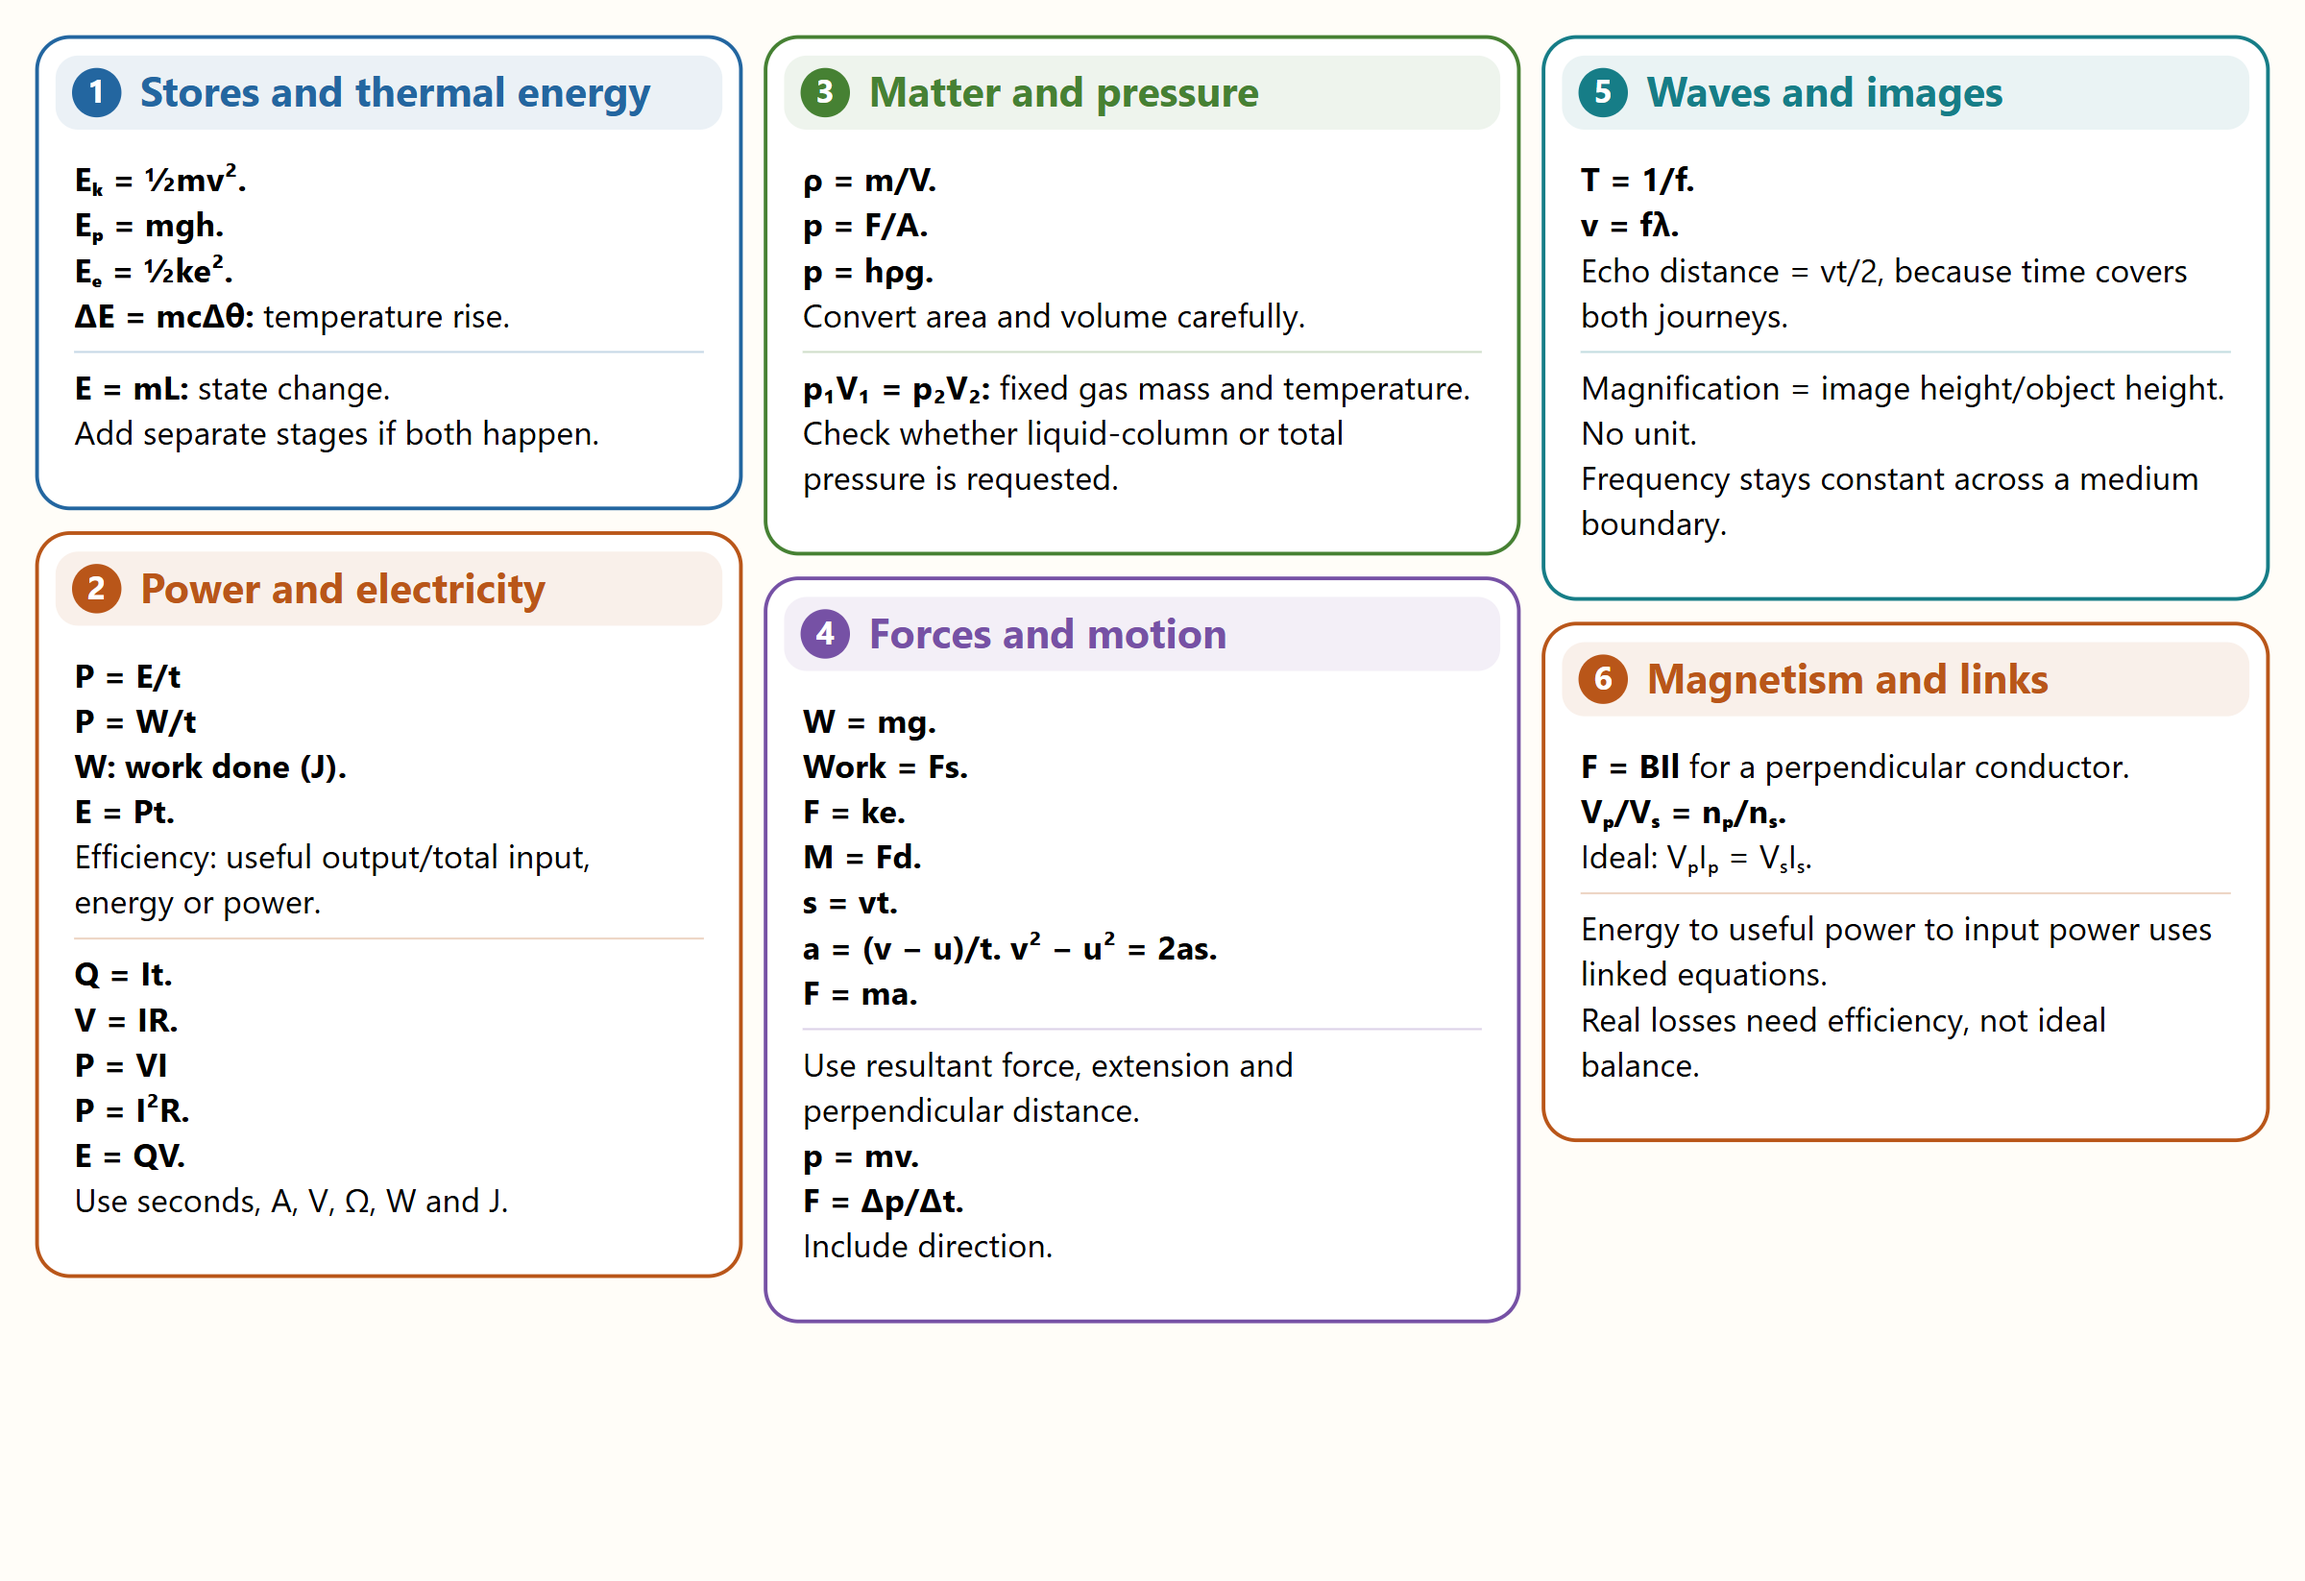
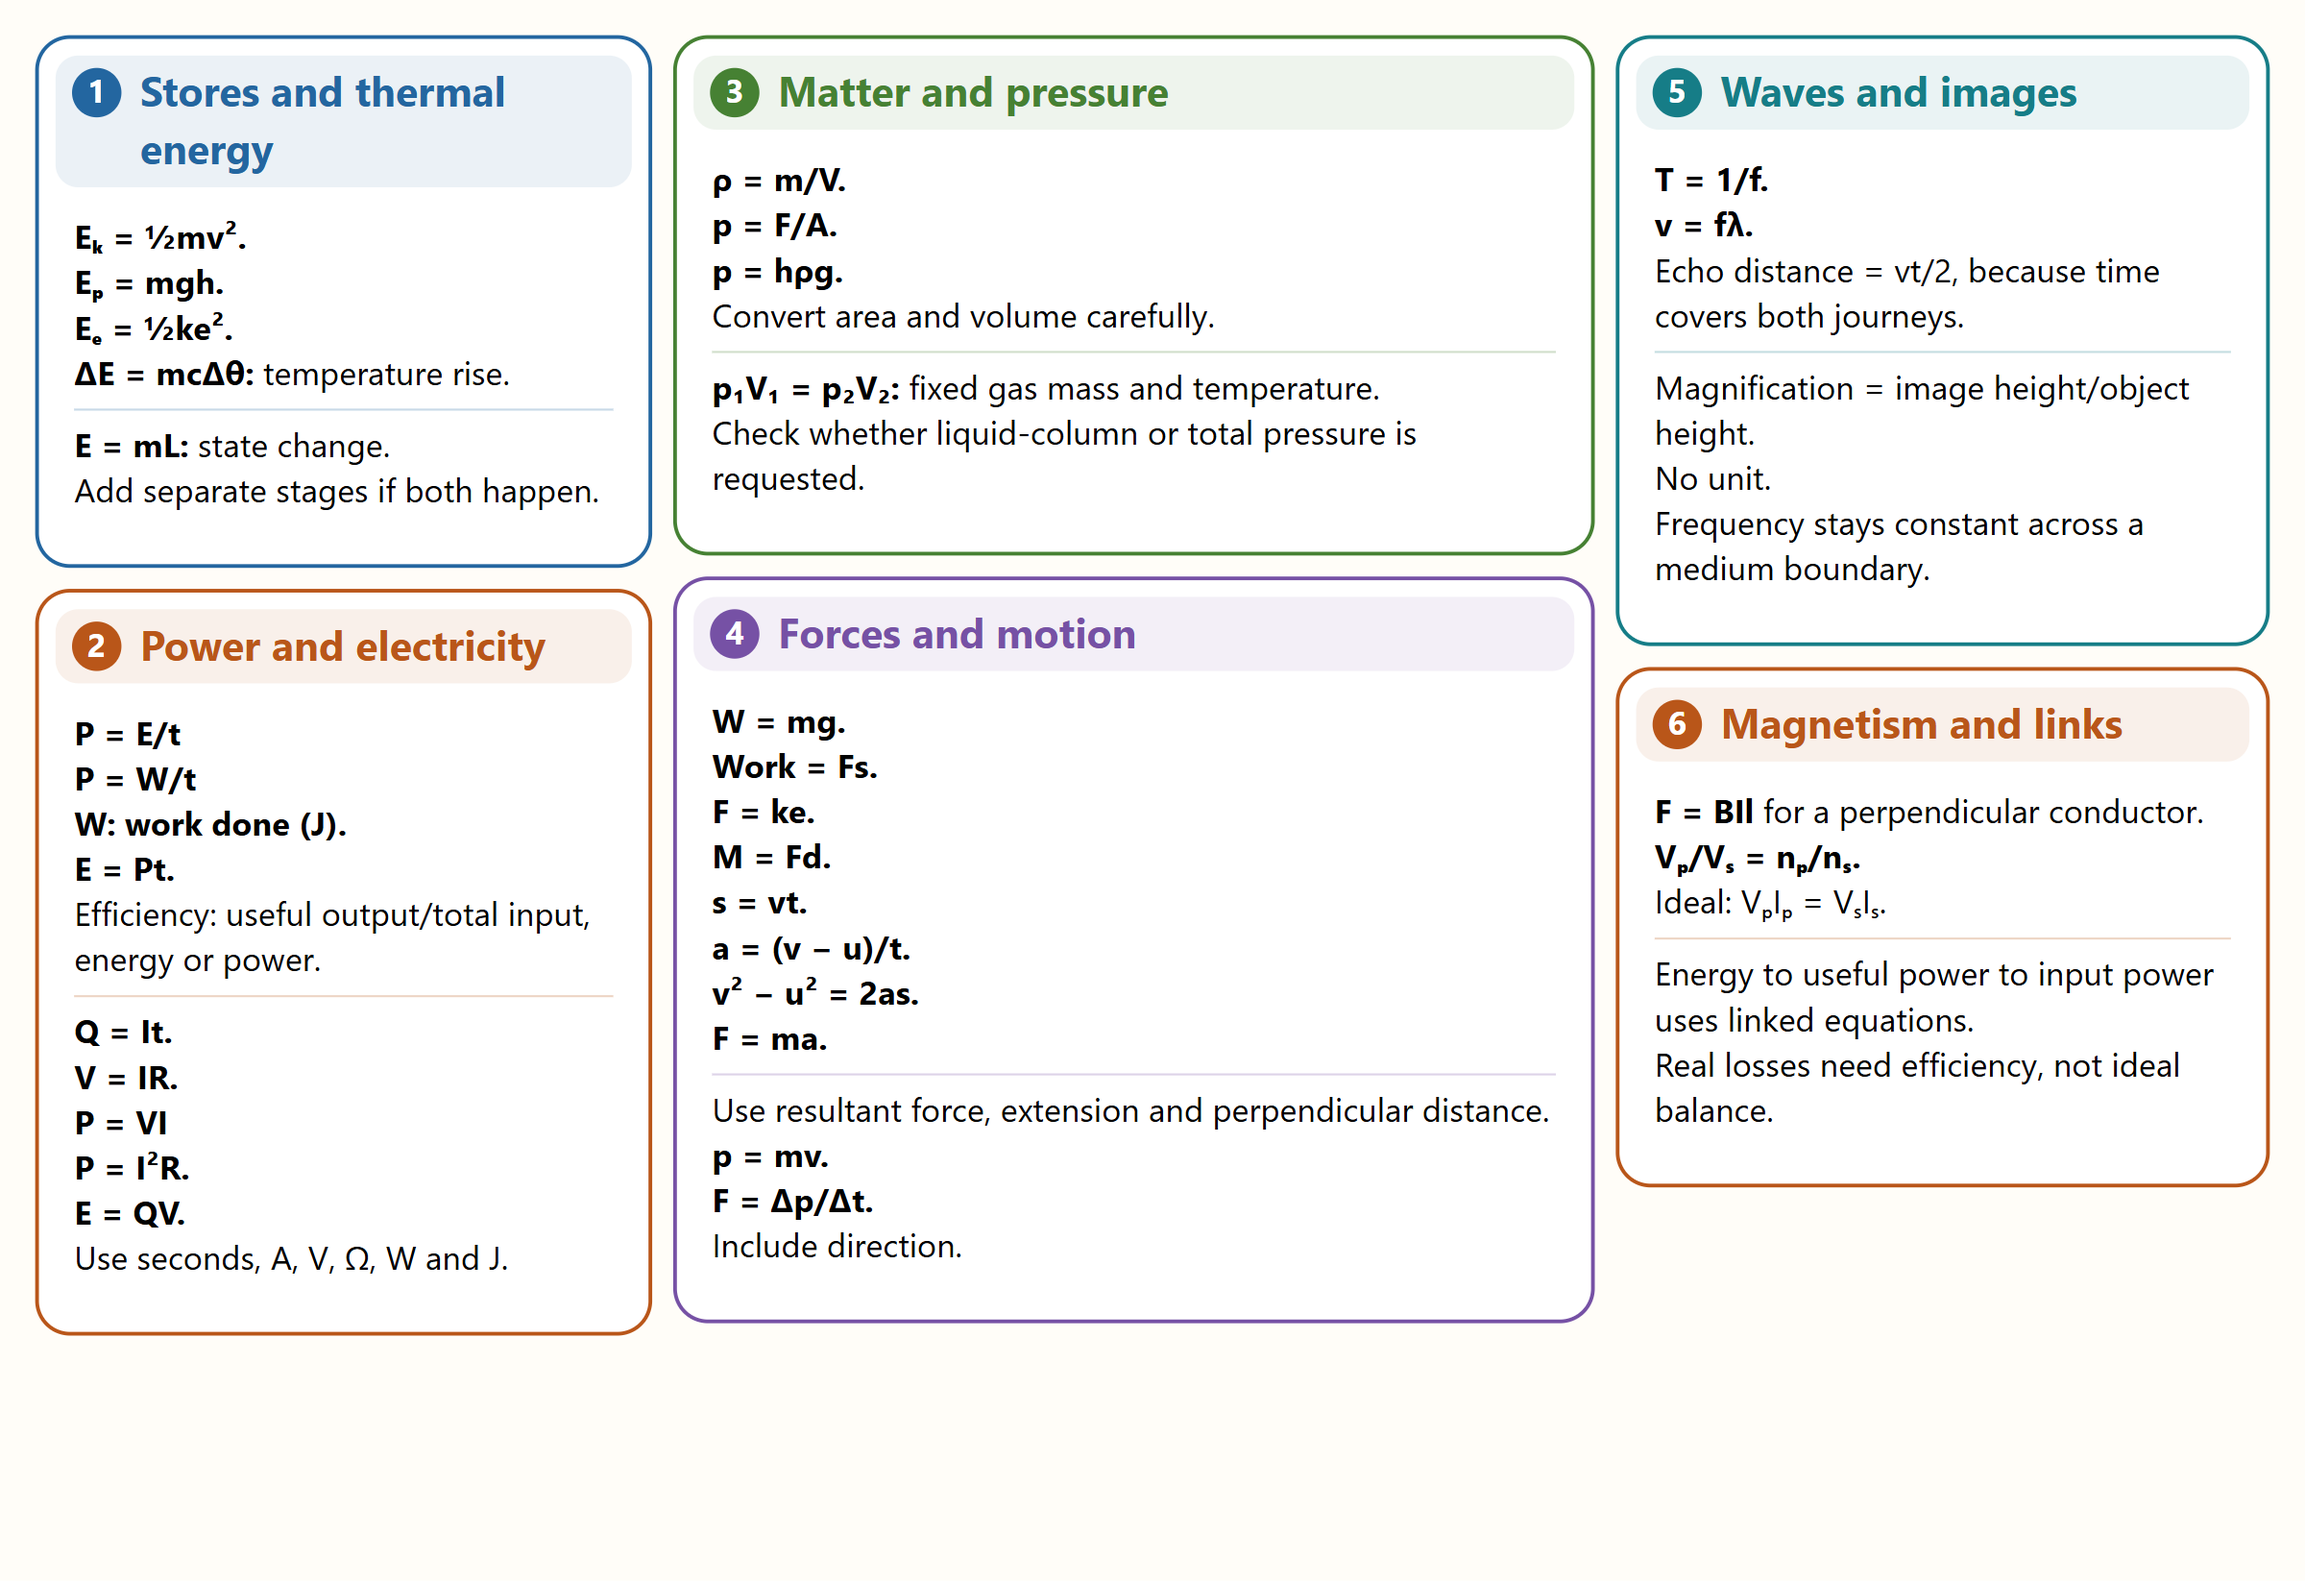
fix: review physics 10 mind-map equation layouts

diff --git a/library/resources/physics-aqa-mathematical-requirements-and-equations-02-equation-toolkit.html b/library/resources/physics-aqa-mathematical-requirements-and-equations-02-equation-toolkit.html
@@ -31,7 +31,8 @@
 <p><strong>F = ke.</strong></p>
 <p><strong>M = Fd.</strong></p>
 <p><strong>s = vt.</strong></p>
-<p><strong>a = (v − u)/t. v² − u² = 2as.</strong></p>
+<p><strong>a = (v − u)/t.</strong></p>
+<p><strong>v² − u² = 2as.</strong></p>
 <p><strong>F = ma.</strong></p>
 <p>Use resultant force, extension and perpendicular distance.</p>
 <p><strong>p = mv.</strong></p>

diff --git a/scripts/science_equation_layout.py b/scripts/science_equation_layout.py
@@ -8,7 +8,7 @@ _CHAINS = (
     (r'F\s*=\s*Δp/Δt\s*=\s*m\(v\s*[−-]\s*u\)/Δt', 'F = Δp/Δt; F = m(v − u)/Δt'),
     (r'1 m\s*=\s*100 cm\s*=\s*1000 mm', '1 m = 100 cm; 1 m = 1000 mm'),
 )
-_QUANTITY = r'(?:\*\*)?(?:[A-Za-zρλθΔ][A-Za-zρλθΔ₀-₉²³ₖₚₛ]*\s*(?:=|\bin\b)|[A-Za-zρλθΔ][₀-₉²³ₖₚₛ]*\s*:|\d+(?:\.\d+)?\s*(?:cm[²³]?|mm[²³]?|dm³|[µμn]m|kg|mg|g|m)\s*=)'
+_QUANTITY = r'(?:\*\*)?(?:[A-Za-zΑ-ωΔ][\w +×−*/()²³-]{0,36}\s*=|[A-Za-zρλθΔ][A-Za-zρλθΔ₀-₉²³ₖₚₛ]*\s*\bin\b|[A-Za-zρλθΔ][₀-₉²³ₖₚₛ]*\s*:|\d+(?:\.\d+)?\s*(?:cm[²³]?|mm[²³]?|dm³|[µμn]m|kg|mg|g|m)\s*=)'
 
 def equation_lines(value):
     """Split independent relationships, retaining emphasis and calculation chains.

diff --git a/Physics - AQA/10 - Mathematical requirements and equations/Mind Maps/02-equation-toolkit.md b/Physics - AQA/10 - Mathematical requirements and equations/Mind Maps/02-equation-toolkit.md
@@ -64,7 +64,9 @@ Check whether liquid-column or total pressure is requested.
 
 **s = vt.**
 
-**a = (v − u)/t. v² − u² = 2as.**
+**a = (v − u)/t.**
+
+**v² − u² = 2as.**
 
 **F = ma.**
 
